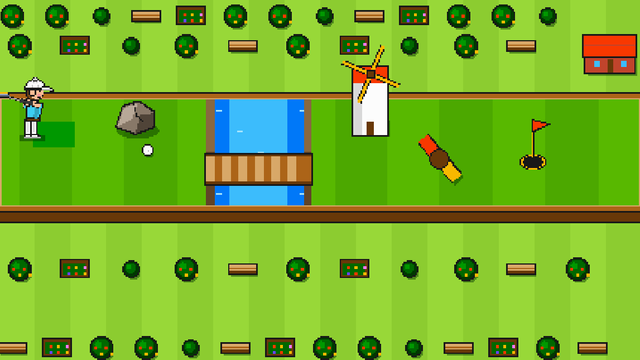
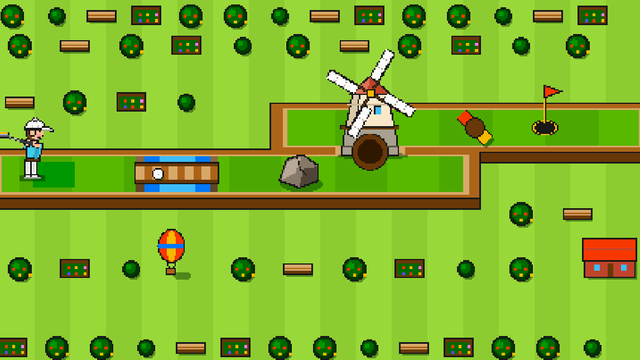
Mini Golf: the windmill has a door the ball goes through; hole 2 is two rows joined by the door

diff --git a/docs/games/mini_golf.md b/docs/games/mini_golf.md
@@ -39,14 +39,14 @@ Rules and turns
 | REQ-MG-7 | **The winner** has the fewest strokes over all holes of the match. A tie is shown as a tie. The end is `open_results()` (REQ-GM-72) with the strokes as the score (fewer is better) and Try again, New game, Back to menu. | Done | smoke_golf |
 | REQ-MG-8 | **Pick up after 6 strokes.** When a player has played 6 strokes on a hole and the ball is not in, the ball is picked up with a soft message and the hole counts as 6 for that player. The player waits for the others. | Done | run_tests |
 | REQ-MG-9 | **Water.** A hole can have a lake that goes from one wall to the other, with a bridge over it. A ball that touches the water (not the bridge) makes a small splash, stops, and goes back to the place of the last putt (the putt counts as a stroke). Nothing more is taken away. | Done | run_tests |
-| REQ-MG-10 | **Edges.** A strong putt with a bad direction can leave the green. The wall brings the ball back (a bounce); the ball never leaves the course. The windmill block, brick walls, rocks, the sliding barriers (red and gold boxes that slide across the course, always leaving a free gap of at least 0.18 m, twice the ball width, at every moment; the smallest gap today is 0.325 m on hole 5 and 0.375 m on hole 3) and the turning blades (a bar that turns around its middle) are obstacles that bounce the ball. A barrier that slides into the ball pushes it aside. Nothing is taken away for a bounce. | Done | run_tests |
+| REQ-MG-10 | **Edges.** A strong putt with a bad direction can leave the green. The wall brings the ball back (a bounce); the ball never leaves the course. The windmill tower has a **door** that the ball goes through (owner, 2026-11-04: the idea of the windmill is a door the ball goes through, on the path to the hole): the tower is two pillars with a door of 0.30 m between them, the ball goes through the door along the across axis (up or down the screen), the door faces the camera, and the ball goes behind the door while it is inside the tower (hole 2: the near row and the far row are joined only by this door; hole 5: the door is in the middle of the tower). The windmill block, brick walls, rocks, the sliding barriers (red and gold boxes that slide across the course, always leaving a free gap of at least 0.18 m, twice the ball width, at every moment; the smallest gap today is 0.325 m on hole 5 and 0.375 m on hole 3) and the turning blades (a bar that turns around its middle) are obstacles that bounce the ball. A barrier that slides into the ball pushes it aside. Nothing is taken away for a bounce. | Done | run_tests |
 | REQ-MG-11 | A player who leaves: the golfer and the ball go away, the turn goes to the next player, and the strokes stay in the result. When nobody is left the "No players connected" menu opens (REQ-GM-22). A lost phone pauses the game (REQ-GM-30). A phone that comes back keeps its slot (REQ-GM-30a). | Done | smoke_golf |
 
 Holes and settings
 
 | ID | Requirement | Status | Check |
 |----|-------------|--------|-------|
-| REQ-MG-12 | **Holes.** The game has **5 holes**, made in advance (pre-generated and saved as data, not made at run time). The settings view (REQ-GM-90) has a row "Holes" with 1 to 5 (default 3) and the Difficulty row. A match of N holes plays holes 1 to N in order. Every hole has its own par (2 to 4). The holes did not change with the new view (the data in `golf_holes.gd`, the sizes in course units: the longest hole, 5, is 3.3 by 5.5 course units with its walls and fits one screen at 250 px for a course unit). | Done | run_tests (hole data), smoke_golf |
+| REQ-MG-12 | **Holes.** The game has **5 holes**, made in advance (pre-generated and saved as data, not made at run time). **Hole 2 (2026-11-04):** two rows with a wall between them: the tee and a lake with a bridge in the near row, then the door of the windmill (the only way up into the far row), the turning blades and the cup in the far row (par 3). The settings view (REQ-GM-90) has a row "Holes" with 1 to 5 (default 3) and the Difficulty row. A match of N holes plays holes 1 to N in order. Every hole has its own par (2 to 4). The holes did not change with the new view (the data in `golf_holes.gd`, the sizes in course units: the longest hole, 5, is 3.3 by 5.5 course units with its walls and fits one screen at 250 px for a course unit). | Done | run_tests (hole data), smoke_golf |
 | REQ-MG-13 | **Difficulty changes the help for aim and power only** (REQ-GM-96; all players have the same difficulty). Easy: a long aim line, and a weak swing still reaches a nearby hole. Medium: a short aim line. Hard: no aim line, only a small marker on the ground. The courses are the same on every difficulty. | Device | run_tests, golf_view (the length of the line), Device (Test 26 step 16e) |
 | REQ-MG-14 | **Medals** (REQ-GM-73): 1 player gets no medal (the tiers by strokes over par were removed, issue #119). For 2 to 4 players each row has the medal of its place. | Done | run_tests |
 | REQ-MG-15 | **No personal best in this version.** The key table of the profile (`profile_keys.gd`) has a limited size, and the saved number would be strokes (fewer is better). `best_key()` returns "". A key `mini_golf|<difficulty>|<holes>` can be added later. | Done | smoke_golf (`best_key()`) |
